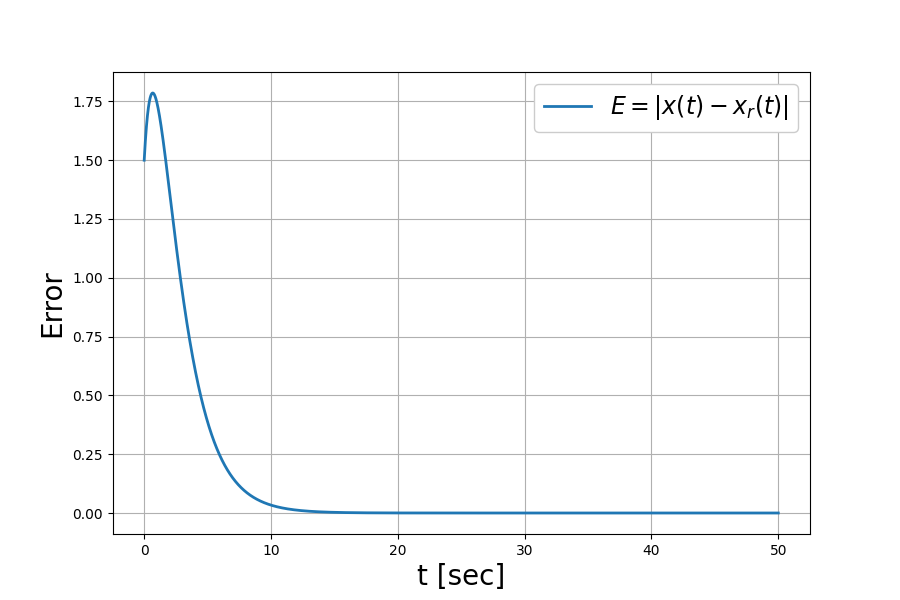
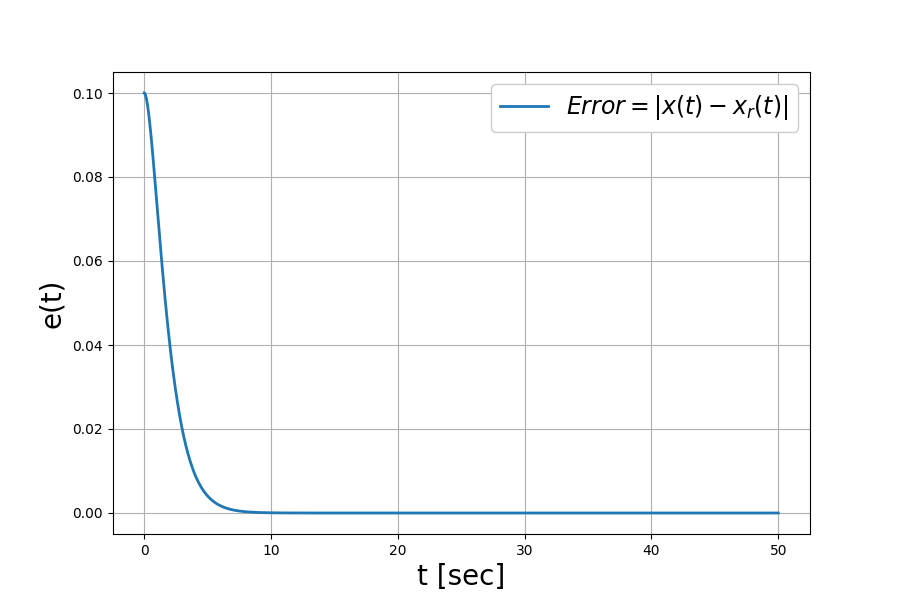
Performance improvement

diff --git a/Model Reference Adaptive Control - Known Parameters.py b/Model Reference Adaptive Control - Known Parameters.py
@@ -4,7 +4,7 @@ import matplotlib.pyplot as plt
 import calculations as calc
 
 
-def process_with_known_params(System, t, k1, k2, c1, c2, m, K, lamda0, k_m1, c_m1):
+def simulation_known_params(System, t, k1, k2, c1, c2, m, K, lamda0, k_m1, c_m1):
     # Array represents the initial state space model: [x0, x0_dot]
     x = System[0]
     x_dot = System[1]
@@ -12,9 +12,9 @@ def process_with_known_params(System, t, k1, k2, c1, c2, m, K, lamda0, k_m1, c_m
     xm_dot = System[3]
 
     # Reference signal to the model reference output
-    r = 3.5 * np.sin(1.2 * t)
+    r = 0.5 * np.sin(2 * t)
     if t > 30:
-        r = 0.5
+        r = -0.35
 
     # Reference model dynamics
     xm_ddot = -(k_m1 / m_m) * xm - (c_m1 / m_m) * xm_dot + r / m_m
@@ -32,72 +32,21 @@ def process_with_known_params(System, t, k1, k2, c1, c2, m, K, lamda0, k_m1, c_m
     return [x_dot, x_ddot, xm_dot, xm_ddot]
 
 
-def generate_plot(t, xm, x, ts, u, **kwargs):
-
-
-    if kwargs.__len__() > 1:
-        plt.figure(figsize=(16, 16))
-        plt.subplot(3, 2, 1)
-        plt.xlabel("t [sec]", fontsize=17)
-        plt.ylabel("Parameter estimation", fontsize=17)
-        plt.plot(t, kwargs["m"], label=r"$m$", linewidth=2)
-        plt.plot(t, kwargs["m_hat"], label=r"$\hat{m}$", linewidth=2)
-        plt.legend(prop={'size': 17}, framealpha=1)
-        plt.grid()
-
-        plt.subplot(3, 2, 2)
-        # plt.figure(figsize=(9,6))
-        plt.xlabel("t [sec]", fontsize=17)
-        plt.ylabel("Parameter estimation", fontsize=17)
-        plt.plot(t, kwargs["k1"], label=r"$k_1$", linewidth=2)
-        plt.plot(t, kwargs["k1_hat"], label=r"$\hat{k_1}$", linewidth=2)
-        plt.legend(prop={'size': 17}, framealpha=1)
-        plt.grid()
-
-        plt.subplot(3, 2, 3)
-        # plt.figure(figsize=(9,6))
-        plt.xlabel("t [sec]", fontsize=17)
-        plt.ylabel("Parameter estimation", fontsize=17)
-        plt.plot(t, kwargs["k2"], label=r"$k_2$", linewidth=2)
-        plt.plot(t, kwargs["k2_hat"], label=r"$\hat{k_2}$", linewidth=2)
-        plt.legend(prop={'size': 17}, framealpha=1)
-        plt.grid()
-
-        plt.subplot(3, 2, 4)
-        # plt.figure(figsize=(9,6))
-        plt.xlabel("t [sec]", fontsize=17)
-        plt.ylabel("Parameter estimation", fontsize=17)
-        plt.plot(t, kwargs["c1"], label=r"$c_1$", linewidth=2)
-        plt.plot(t, kwargs["c1_hat"], label=r"$\hat{c_1}$", linewidth=2)
-        plt.legend(prop={'size': 17}, framealpha=1)
-        plt.grid()
-
-        plt.subplot(3, 2, 5)
-        # plt.figure(figsize=(9,6))
-        plt.xlabel("t [sec]", fontsize=17)
-        plt.ylabel("Parameter estimation", fontsize=17)
-        plt.plot(t, kwargs["c2"], label=r"$c_2$", linewidth=2)
-        plt.plot(t, kwargs["c2_hat"], label=r"$\hat{c_2}$", linewidth=2)
-        plt.legend(prop={'size': 17}, framealpha=1)
-        plt.grid()
-    plt.show()
-
-
 # System definition
-k1, k2, c1, c2 = 5, 3, 10, 2  # Model constants
+k1, k2, c1, c2 = 98, 80, 15, 0.34  # Model constants
 m = 2  # Mass
 
 # Initial Conditions - System model
-x0, x0_dot = 2, 0
+x0, x0_dot = 0.2, 0
 u = 0
 
 # Reference definition
 m_m = 1  # Ref model mass
-k_m1, c_m1 = 6, 2.53  # Ref model constants
-xm0, xm0_dot = 0.5, -1  # Initial Conditions - Ref model
+k_m1, c_m1 = 3.8, 2.3  # Ref model constants
+xm0, xm0_dot = 0.1, 0  # Initial Conditions - Ref model
 
 # Adaptive Controller Constants
-K = 1  # Constant
+K = 2  # Constant
 lamda0 = 1  # Constant of the z system dynamics
 gamma = 50  # Adaptation gain
 
@@ -111,15 +60,15 @@ t = np.arange(t_start, t_end + dt, dt)
 
 time_lst, input_lst = [], []
 System = [x0, x0_dot, xm0, xm0_dot]  # Initial conditions
-sys_response = odeint(process_with_known_params, System, t, args=(k1, k2, c1, c2, m, K, lamda0, k_m1, c_m1))
+sys_response = odeint(simulation_known_params, System, t, args=(k1, k2, c1, c2, m, K, lamda0, k_m1, c_m1))
 
 # Plot results
 plt.tight_layout()
 
 plt.figure(figsize=(9, 6))
 plt.xlabel("t [sec]", fontsize=20)
-plt.ylabel("Tracking performance", fontsize=20)
-plt.plot(t, sys_response[:, 2], label=r"$x_m(t)$", linewidth=2)
+plt.ylabel("x [m]", fontsize=20)
+plt.plot(t, sys_response[:, 2], label=r"$x_r(t)$", linewidth=2)
 plt.plot(t, sys_response[:, 0], label=r"$x(t)$", linewidth=2)
 plt.legend(prop={'size': 17}, framealpha=1)
 plt.title("Reference Tracking performance", fontsize=24)
@@ -132,8 +81,8 @@ err = np.abs(sys_response[:, 0] - sys_response[:, 2])
 
 plt.figure(figsize=(9, 6))
 plt.xlabel("t [sec]", fontsize=20)
-plt.ylabel("Error", fontsize=20)
-plt.plot(t, err, label=r"$E = |x(t)-x_r(t)|$", linewidth=2)
+plt.ylabel("e(t)", fontsize=20)
+plt.plot(t, err, label=r"$Error = |x(t)-x_r(t)|$", linewidth=2)
 plt.legend(prop={'size': 17}, framealpha=1)
 plt.grid()
 plt.savefig(f'images/Q3/Error.png')

diff --git a/reference model.py b/reference model.py
@@ -3,25 +3,25 @@ import matplotlib.pyplot as plt
 
 
 # System definition
-k1, k2, c1, c2 = 5, 3, 10, 2  # Model constants
+k1, k2, c1, c2 = 98, 80, 15, 0.34  # Model constants
 m = 2  # Mass
 
 # Initial Conditions - System model
-x0, x0_dot = 2, 0
+x0, x0_dot = 0.2, 0
 u = 0
 
-# Initial guesses for model constants
-m_hat, k1_hat, k2_hat, c1_hat, c2_hat = 0.5, 8, 5, 5, 1
+# # Initial guesses for model constants
+# m_hat, k1_hat, k2_hat, c1_hat, c2_hat = 0.5, 40, 30, 10, 0.1
 
 
 # Reference definition
 m_m = 1  # Ref model mass
-k_m1, c_m1 = 6, 2.53  # Ref model constants
-xm0, xm0_dot = 0.5, -1  # Initial Conditions - Ref model
+k_m1, c_m1 = 3.8, 2.3  # Ref model constants
+xm0, xm0_dot = 0.1, 0  # Initial Conditions - Ref model
 
 
 # Adaptive Controller Constants
-K = 1  # Constant
+K = 2  # Constant
 lamda0 = 1  # Constant of the z system dynamics
 gamma = 50  # Adaptation gain
 
@@ -36,13 +36,13 @@ t = np.arange(t_start, t_end + dt, dt)
 
 ones = np.ones(t.shape)
 
-first_input = 3.5 * np.sin(1.2 * t[:int(0.6 * len(t))])
-second_input = 0.5 * np.ones(t[int(0.6 * len(t)):].shape)
+first_input = 0.5 * np.sin(2 * t[:int(0.6 * len(t))])
+second_input = -0.35 * np.ones(t[int(0.6 * len(t)):].shape)
 r_sin = np.hstack((first_input, second_input))
 
 plt.figure(figsize=(14, 6))
 plt.xlabel("t [sec]", fontsize=20)
-plt.ylabel("signal(t)", fontsize=20)
+plt.ylabel("r (t)", fontsize=20)
 plt.title("Reference Signal", fontsize=24)
 plt.plot(t, r_sin, linewidth=2)
 plt.grid()

diff --git a/calculations.py b/calculations.py
@@ -1,10 +1,37 @@
 
 
-def error_calc(x, xm, x_dot, xm_dot):
-    return x - xm, x_dot - xm_dot
+def error_calc(x, xr, x_dt, xr_dt):
+    """
+
+    :param x:
+    :param xr:
+    :param x_dt:
+    :param xr_dt:
+    :return:
+    """
+    err = x - xr
+    err_d = x_dt - xr_dt
+    return err, err_d
 
 
 def controller(x, xm, x_dot, xm_dot, xm_ddot, m, lamda0, K, k1, k2, c1, c2, params):
+    """
+
+    :param x:
+    :param xm:
+    :param x_dot:
+    :param xm_dot:
+    :param xm_ddot:
+    :param m:
+    :param lamda0:
+    :param K:
+    :param k1:
+    :param k2:
+    :param c1:
+    :param c2:
+    :param params:
+    :return:
+    """
     e, e_dot = error_calc(x, xm, x_dot, xm_dot)
     xr_ddot = xm_ddot - lamda0 * e_dot
     z = e_dot + lamda0 * e
@@ -14,6 +41,13 @@ def controller(x, xm, x_dot, xm_dot, xm_ddot, m, lamda0, K, k1, k2, c1, c2, para
     return u, xr_ddot, z
 
 
-def euler_integration(y, y_dot, dt):
-    return y + y_dot * dt
+def euler_integration(y, y_dt, dt):
+    """
+
+    :param y:
+    :param y_dot:
+    :param dt:
+    :return:
+    """
+    return y + y_dt * dt
 
